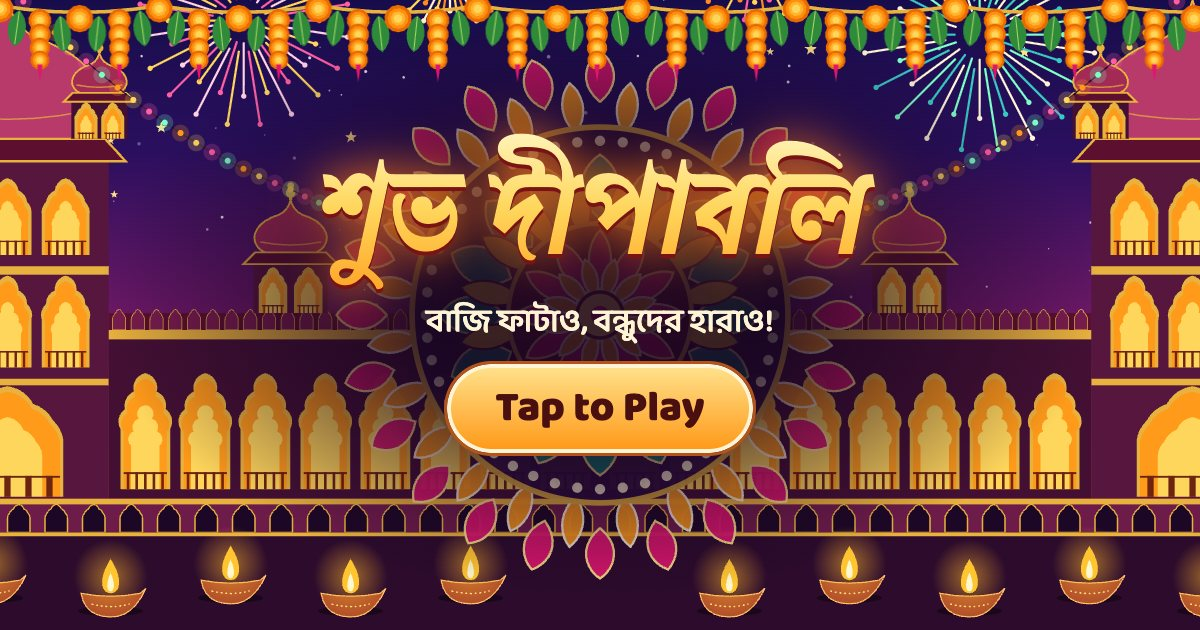
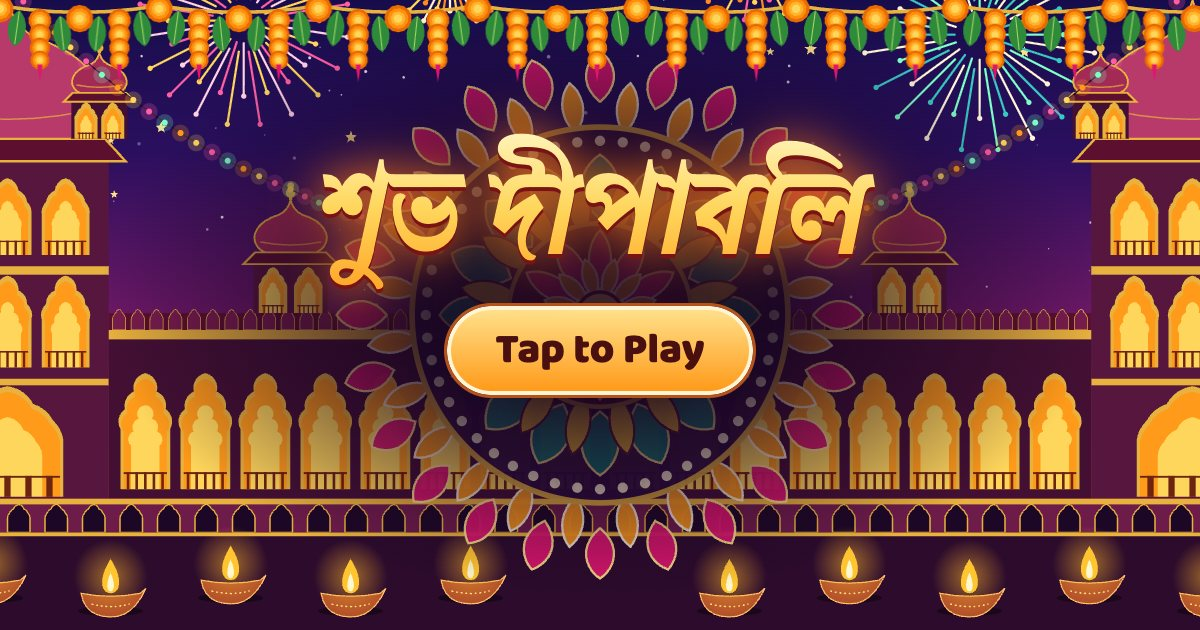
Redraw crackers as flat stickers and simplify the Bengali page
Bengali share button now reads Share in WhatsApp, and its tagline is gone
from both the page and the link preview.

Changed region(s): [[0.3392, 0.4524, 0.6475, 0.7238]]

diff --git a/game.js b/game.js
@@ -140,41 +140,41 @@ function start(T) {
   /* ---------- crackers ---------- */
   const TYPES = {
     chakri: {
-      pts: 10, size: 82, r: 36, life: 2.6, weight: 28,
+      pts: 10, size: 90, r: 38, life: 2.6, weight: 28,
       place: () => ({ x: rnd(70 * S, W - 70 * S), y: rnd(H * .34, H * .8), vx: from([-1, 1]) * rnd(50, 110) * S }),
       spin: 10,
       emit(c) { const a = c.age * 10, q = 40 * S; spark(c.x + Math.cos(a) * q, c.y + Math.sin(a) * q, -Math.sin(a) * 170 * S, Math.cos(a) * 170 * S, .45, from(['#ffd65c', '#ff5fa2', '#fff']), 120 * S); },
       burst(c) { ring(c.x, c.y, 54, 210, ['#ff5fa2', '#ffd65c', '#7dffc7', '#fff']); bang(.22, 3200, .4); },
     },
     anar: {
-      pts: 15, size: 86, r: 38, life: 2.3, weight: 24,
+      pts: 15, size: 92, r: 38, life: 2.3, weight: 24,
       place: () => ({ x: rnd(70 * S, W - 70 * S), y: rnd(H * .5, H * .8) }),
-      emit(c) { spark(c.x + rnd(-3, 3) * S, c.y - 36 * S, rnd(-44, 44) * S, -rnd(120, 240) * S, .6, from(['#ffd65c', '#fff', '#ff9a1a']), 300 * S); },
+      emit(c) { spark(c.x + rnd(-3, 3) * S, c.y - 38 * S, rnd(-44, 44) * S, -rnd(120, 240) * S, .6, from(['#ffd65c', '#fff', '#ff9a1a']), 300 * S); },
       burst(c) { fountain(c.x, c.y - 30 * S, 86, 520, ['#ffd65c', '#ff9a1a', '#fff', '#ffe89e']); bang(.4, 1900, .46); },
     },
     rocket: {
-      pts: 25, size: 94, r: 38, life: 4, weight: 14,
+      pts: 25, size: 100, r: 38, life: 4, weight: 14,
       place: () => ({ x: rnd(100 * S, W - 100 * S), y: H + 50 * S, vx: rnd(-34, 34) * S, vy: -rnd(.4, .52) * H }),
-      emit(c) { spark(c.x + 5 * S, c.y + 48 * S, rnd(-24, 24) * S, rnd(70, 170) * S, .38, from(['#ffb13c', '#fff4d6', '#ff5a36']), 0); },
+      emit(c) { spark(c.x, c.y + 24 * S, rnd(-24, 24) * S, rnd(70, 170) * S, .38, from(['#ffb13c', '#fff4d6', '#ff5a36']), 0); },
       burst(c) { ring(c.x, c.y, 104, 320, ['#7dffc7', '#39c9c2', '#fff', '#ffd65c']); thump(900, 240, .22, .16); bang(.5, 2300, .55); },
     },
     bomb: {
-      pts: 40, size: 80, r: 36, life: 1.35, weight: 12,
+      pts: 40, size: 88, r: 38, life: 1.35, weight: 12,
       place: () => ({ x: rnd(70 * S, W - 70 * S), y: rnd(H * .3, H * .76) }),
-      emit(c) { spark(c.x + 7 * S, c.y - 38 * S, rnd(-70, 70) * S, rnd(-80, 20) * S, .3, from(['#fff', '#ffd65c']), 180 * S); },
+      emit(c) { spark(c.x + 11 * S, c.y - 33 * S, rnd(-70, 70) * S, rnd(-80, 20) * S, .3, from(['#fff', '#ffd65c']), 180 * S); },
       burst(c) {
         ring(c.x, c.y, 150, 430, ['#fff4d6', '#ffd65c', '#ff5a36', '#ff9a1a'], 1.1);
         shake = 12 * S; buzz(70); thump(120, 42, .55, .75); bang(.7, 1300, .85);
       },
     },
     ladi: {
-      pts: 30, size: 96, r: 42, life: 2.5, weight: 12,
+      pts: 30, size: 104, r: 44, life: 2.5, weight: 12,
       place: () => ({ x: rnd(70 * S, W - 70 * S), y: rnd(H * .34, H * .68), vy: 20 * S }),
       sway: true,
       burst(c) { for (let i = 0; i < 8; i++) later.push({ at: i * .075, x: c.x + rnd(-14, 14) * S, y: c.y + (38 - i * 11) * S }); },
     },
     dud: {
-      pts: -20, size: 78, r: 32, life: 2.5, weight: 14,
+      pts: -20, size: 86, r: 34, life: 2.5, weight: 14,
       place: () => ({ x: rnd(70 * S, W - 70 * S), y: rnd(H * .34, H * .8) }),
       burst(c) { for (let i = 0; i < 14; i++) spark(c.x, c.y, rnd(-50, 50) * S, rnd(-50, 5) * S, .7, from(['#9aa0ad', '#6fc4ff']), 300 * S, 3); buzz(30); bang(.3, 340, .45); },
     },
@@ -395,7 +395,8 @@ function start(T) {
 
   /* ---------- screen text ---------- */
   $('title').textContent = T.title;
-  $('tagline').textContent = T.tagline;
+  $('tagline').textContent = T.tagline || '';
+  $('tagline').hidden = !T.tagline;
   $('play').textContent = T.play;
   $('share').textContent = T.share;
   $('scoreLabel').textContent = T.score;

diff --git a/bn.html b/bn.html
@@ -5,10 +5,9 @@
 <meta name="viewport" content="width=device-width,initial-scale=1,viewport-fit=cover">
 <title>শুভ দীপাবলি! Tap to Play</title>
 <meta property="og:title" content="🪔 শুভ দীপাবলি! Tap to Play">
-<meta property="og:description" content="বাজি ফাটাও, ফুস এড়িয়ে চলো, বন্ধুদের হারাও!">
 <meta property="og:type" content="website">
 <meta property="og:url" content="https://newrishav-debug.github.io/HappyDiwali/bn.html">
-<meta property="og:image" content="https://newrishav-debug.github.io/HappyDiwali/preview-bn.jpg?v=3">
+<meta property="og:image" content="https://newrishav-debug.github.io/HappyDiwali/preview-bn.jpg?v=4">
 <meta property="og:image:width" content="1200">
 <meta property="og:image:height" content="630">
 <meta name="twitter:card" content="summary_large_image">
@@ -44,9 +43,8 @@
 window.T = {
   locale: 'bn-IN', named: false,
   title: 'শুভ দীপাবলি', from: () => '',
-  tagline: 'বাজি ফাটাও, ফুস এড়িয়ে চলো, বন্ধুদের হারাও!',
   play: 'Tap to Play', again: 'আবার খেলো', score: 'স্কোর', time: 'সময়', over: 'তোমার স্কোর',
-  share: 'হোয়াটসঅ্যাপে পাঠাও', sound: 'শব্দ চালু করো', mute: 'শব্দ বন্ধ করো',
+  share: 'Share in WhatsApp', sound: 'শব্দ চালু করো', mute: 'শব্দ বন্ধ করো',
   invite: () => '🪔 শুভ দীপাবলি! এসো, একসাথে বাজি ফাটাই 🎆',
   brag: (s, n, r) => `🪔 শুভ দীপাবলি! আমার স্কোর ${s}, আমি এখন ${r}! পারলে হারাও 🎆`,
   names: { chakri: 'চরকি', anar: 'তুবড়ি', rocket: 'রকেট', bomb: 'দোদমা', ladi: 'কালীপটকা', dud: 'ভেজা বাজি' },
